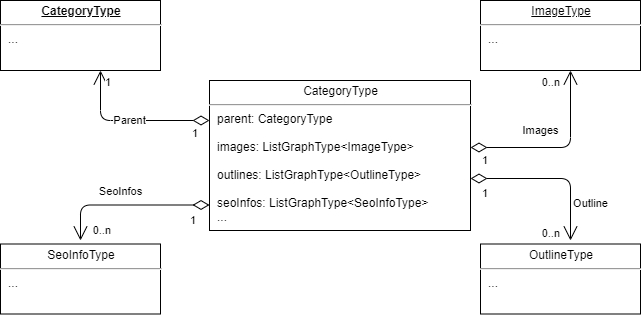
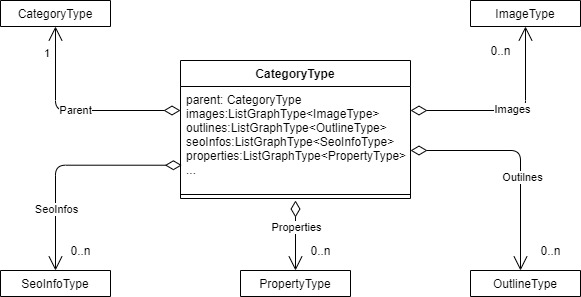
PT-2386: Update docs with properties connection description

diff --git a/docs/x-catalog-reference.md b/docs/x-catalog-reference.md
@@ -132,6 +132,92 @@ This connection allows you to search products.
     }
 }
 ```
+### Properties
+This connection allows you to search catalog properties metadata.
+#### Definition:
+`properties(storeId: !string, types: [PropertyType], filter: string, cultureName: string)`
+#### Arguments:
+|№ |Name        |Type                     |Description                |
+|--|------------|-------------------------|---------------------------|
+| 1|storeId      |Non null StringGraphType |Store Id            |
+| 2|types      |ListGraphType of PropertyTypeEnum's |The owner types (Catalog, Category, Product, Variation or combinations)            |
+| 3|filter      |StringGraphType |This parameter applies a filter to the query results           |
+| 4|cultureName      |StringGraphType |Culture name (e.g. "en-US")            |
+
+#### Example 1:
+Enlist properties metadata with dictionary items, specified culture, specific name and types:
+```
+{
+  properties (storeId:"Electronics", cultureName:"de-DE", filter:"keyword:Brand", types:[PRODUCT, VARIATION])
+  {
+    items
+    {
+      name
+      type
+      id
+      multivalue
+      propertyDictItems
+      {
+        totalCount
+        items
+        {
+          value
+        }
+      }
+    }
+  }
+}
+```
+#### Example 2:
+Get properties for specific category:
+```
+{
+  properties (storeId:"Electronics", filter:"categoryId:53e239451c844442a3b2fe9aa82d95c8")
+  {
+    items
+    {
+      name
+      type
+      id
+      multivalue
+      propertyDictItems
+      {
+        totalCount
+        items
+        {
+          value
+        }
+      }
+    }
+  }
+}
+```
+### Property
+This connection allows you to get metadata for specific catalog property.
+#### Definition:
+`property(id: !string, cultureName: string)`
+#### Arguments:
+|№ |Name        |Type                     |Description                |
+|--|------------|-------------------------|---------------------------|
+| 1|id      |Non null StringGraphType |Property id            |
+| 4|cultureName      |StringGraphType |Culture name (e.g. "en-US")            |
+
+#### Example:
+Get one property with dictionary items for specific culture:
+```
+{
+  property (id:"43d14478-d142-4a65-956f-0a308d0c4ee8", cultureName:"de-DE")
+  {
+    propertyDictItems
+    {
+      items
+      {
+        value
+      }
+    }
+  }
+}
+```
 
 ## Queriable objects
 ### ProductType
@@ -178,6 +264,7 @@ This connection allows you to search products.
 |7|images    |List of ImageType      |Category images|
 |8|outlines  |List of OutlineType    |Category outlines|
 |9|seoInfos  |List of SeoInfoType    |SEO information of the category|
+|9|properties  |List of PropertyType    |Properties of the category|
 
 ## Syntax
 ### Full-Text Search
